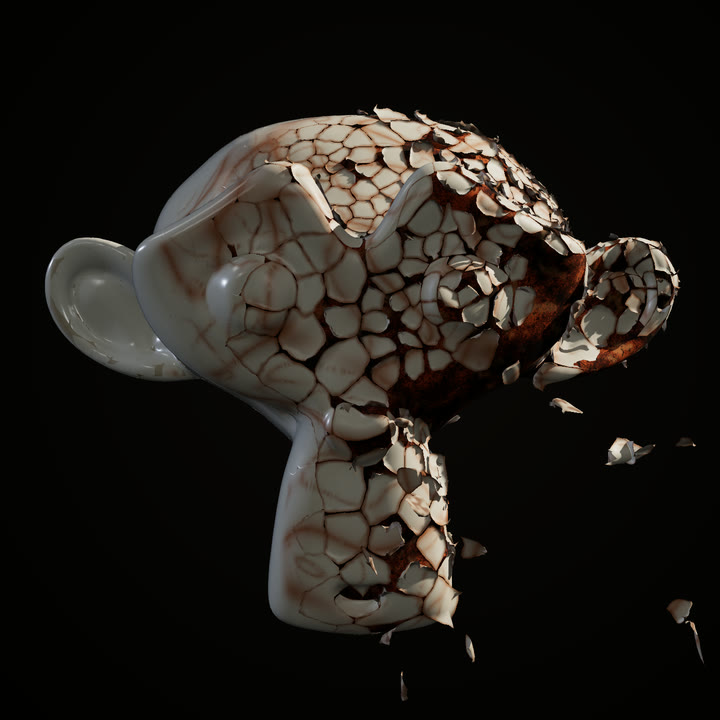
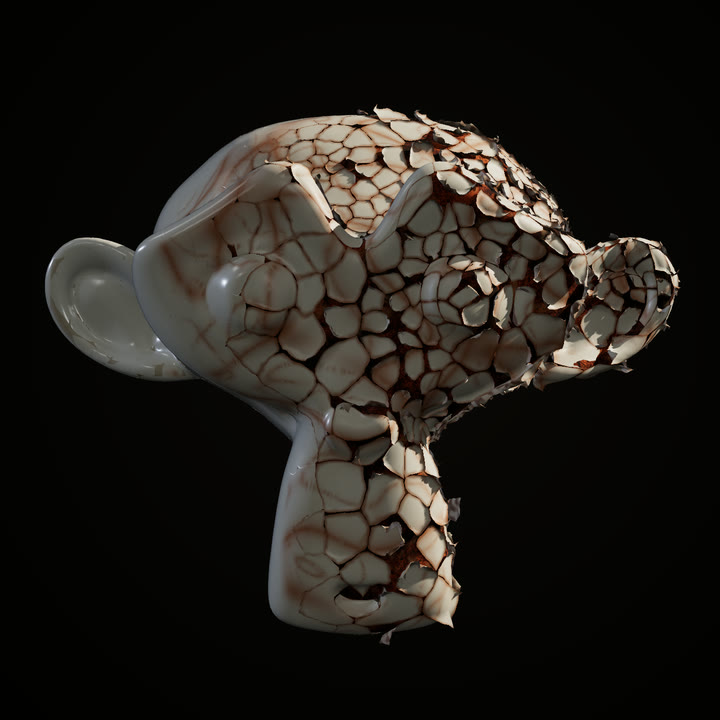
Rust: only a twentieth of the flakes fall, the rest stay curled; film.mjs takes CAM

diff --git a/11-rust/src/index.ts b/11-rust/src/index.ts
@@ -100,7 +100,7 @@ export const look = {
   peelAt: [0.45, 1.15],
   fallAt: 1.0, // plus up to fallSpread, per flake
   fallSpread: 0.35,
-  fallShare: 0.25, // how many flakes drop off; the rest stay curled
+  fallShare: 0.05, // how many flakes drop off; the rest stay curled
   fallDown: 0.7, // 0: which ones fall is chance; 1: the ones facing down go first (with a small share, only those)
   gravity: 0.5,
   // loose flakes (a sim on the GPU)
